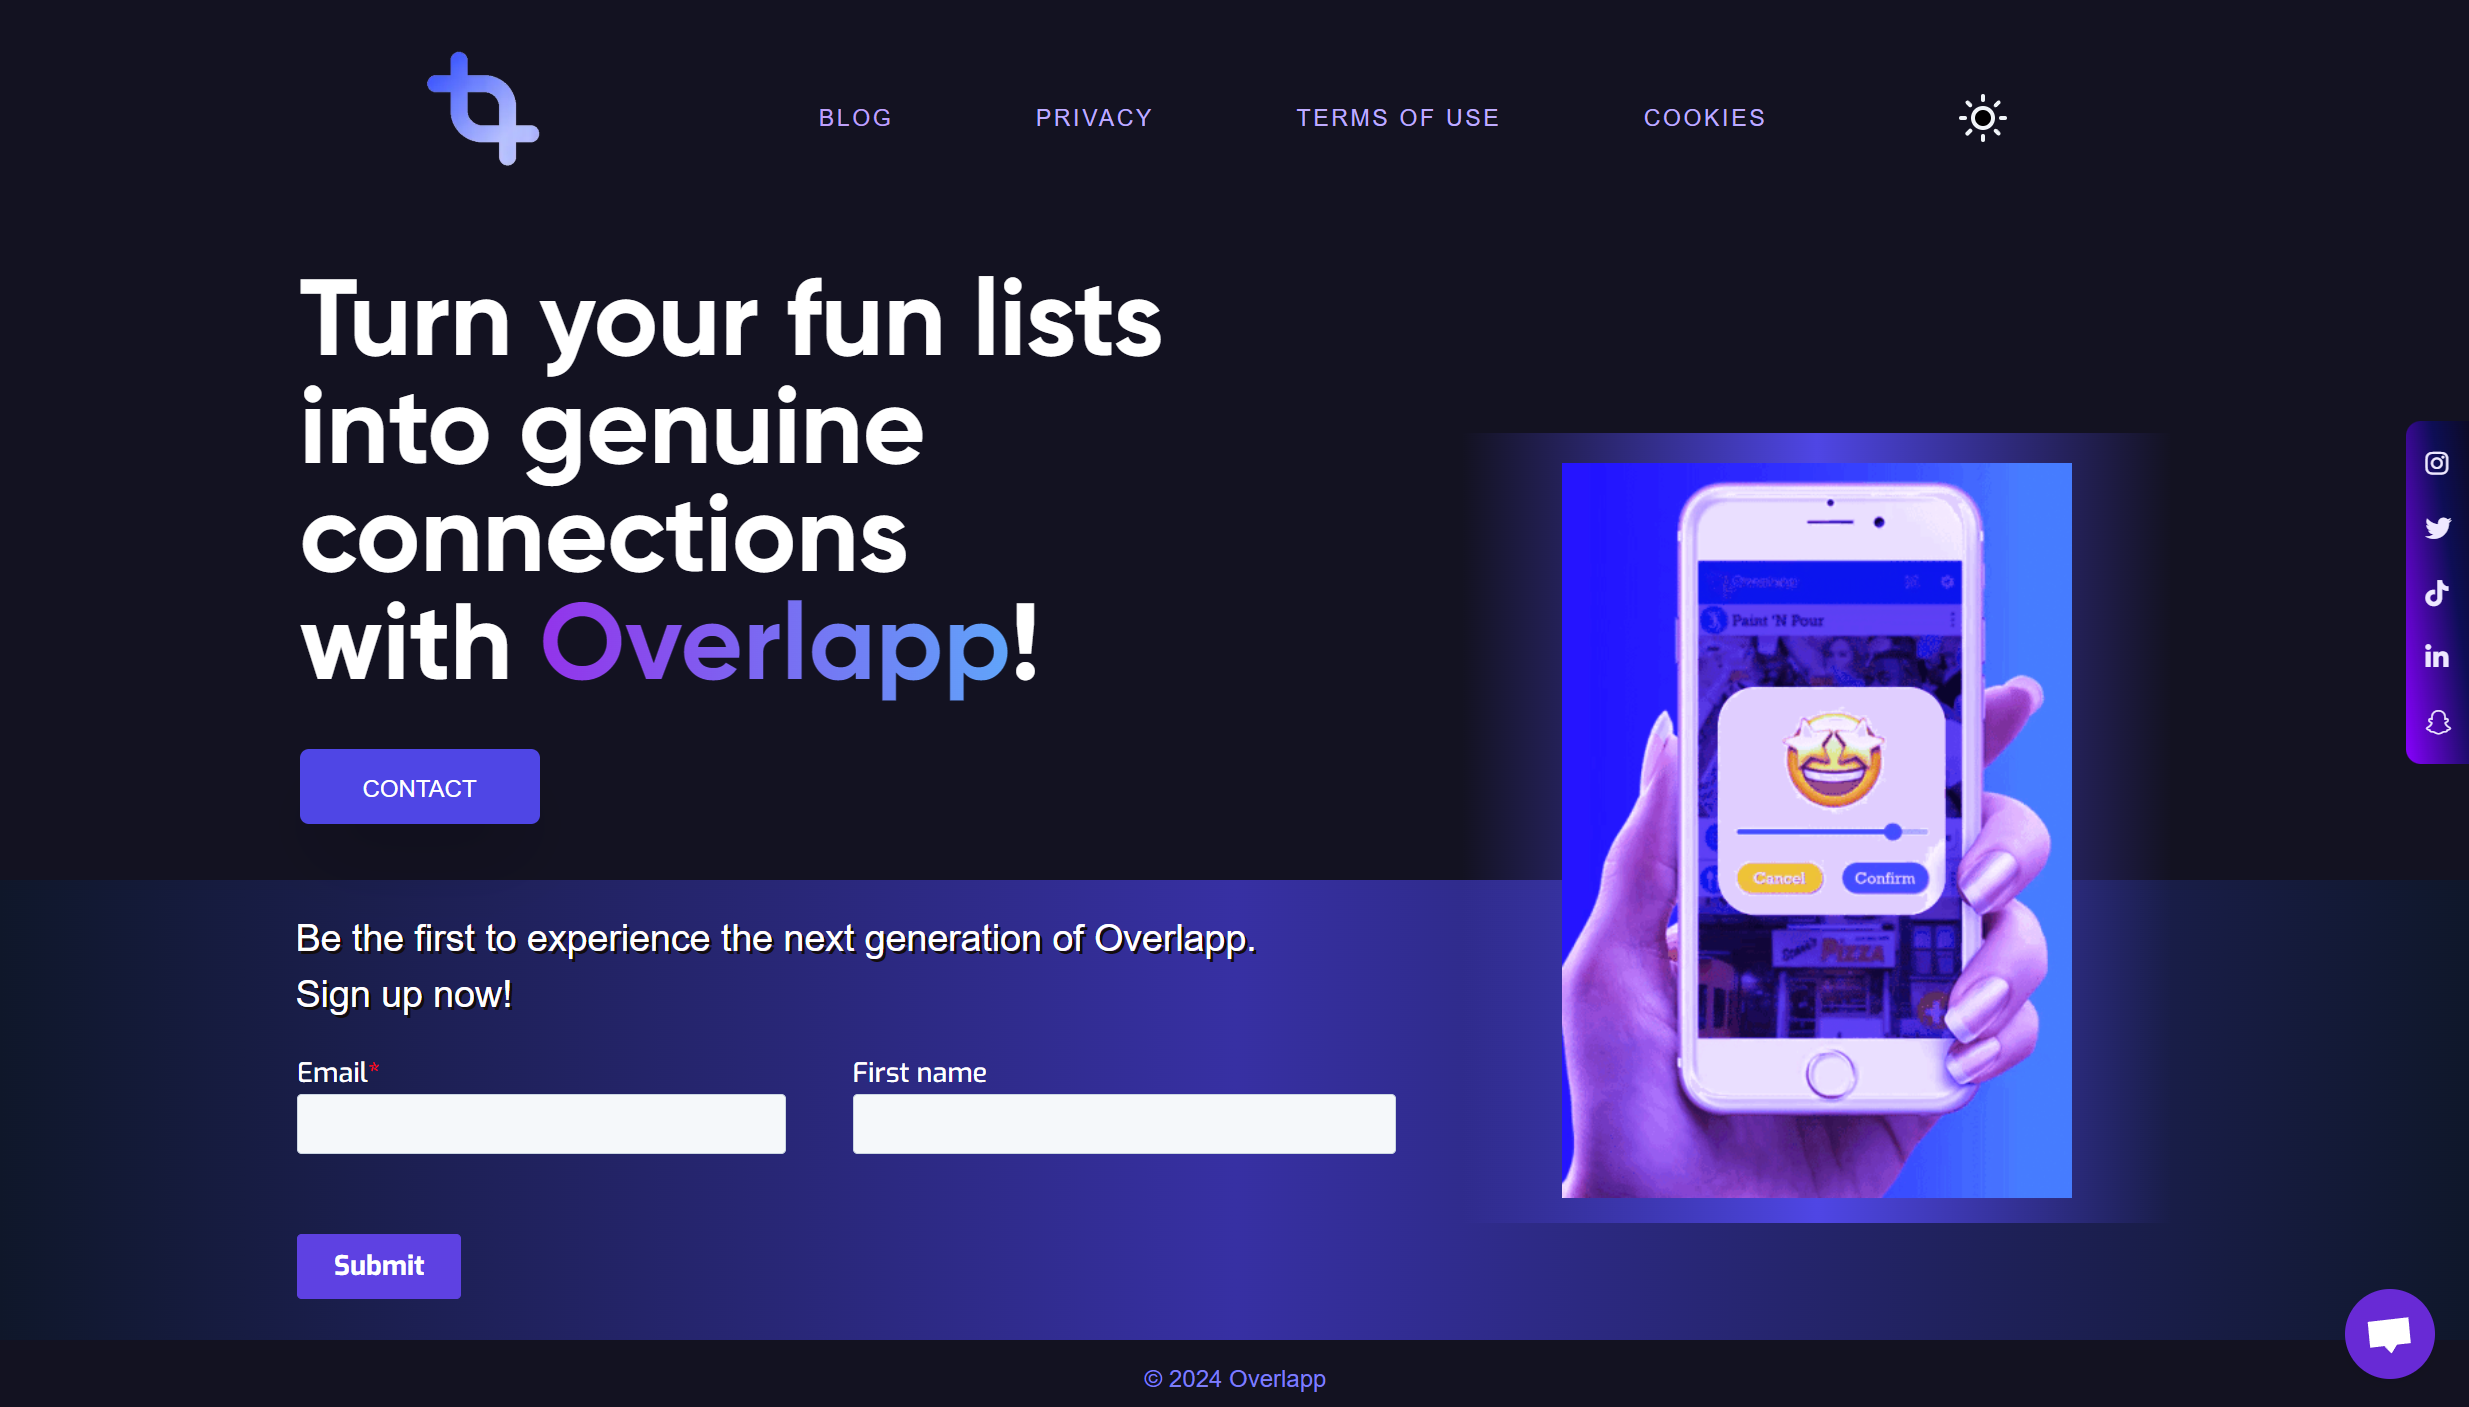
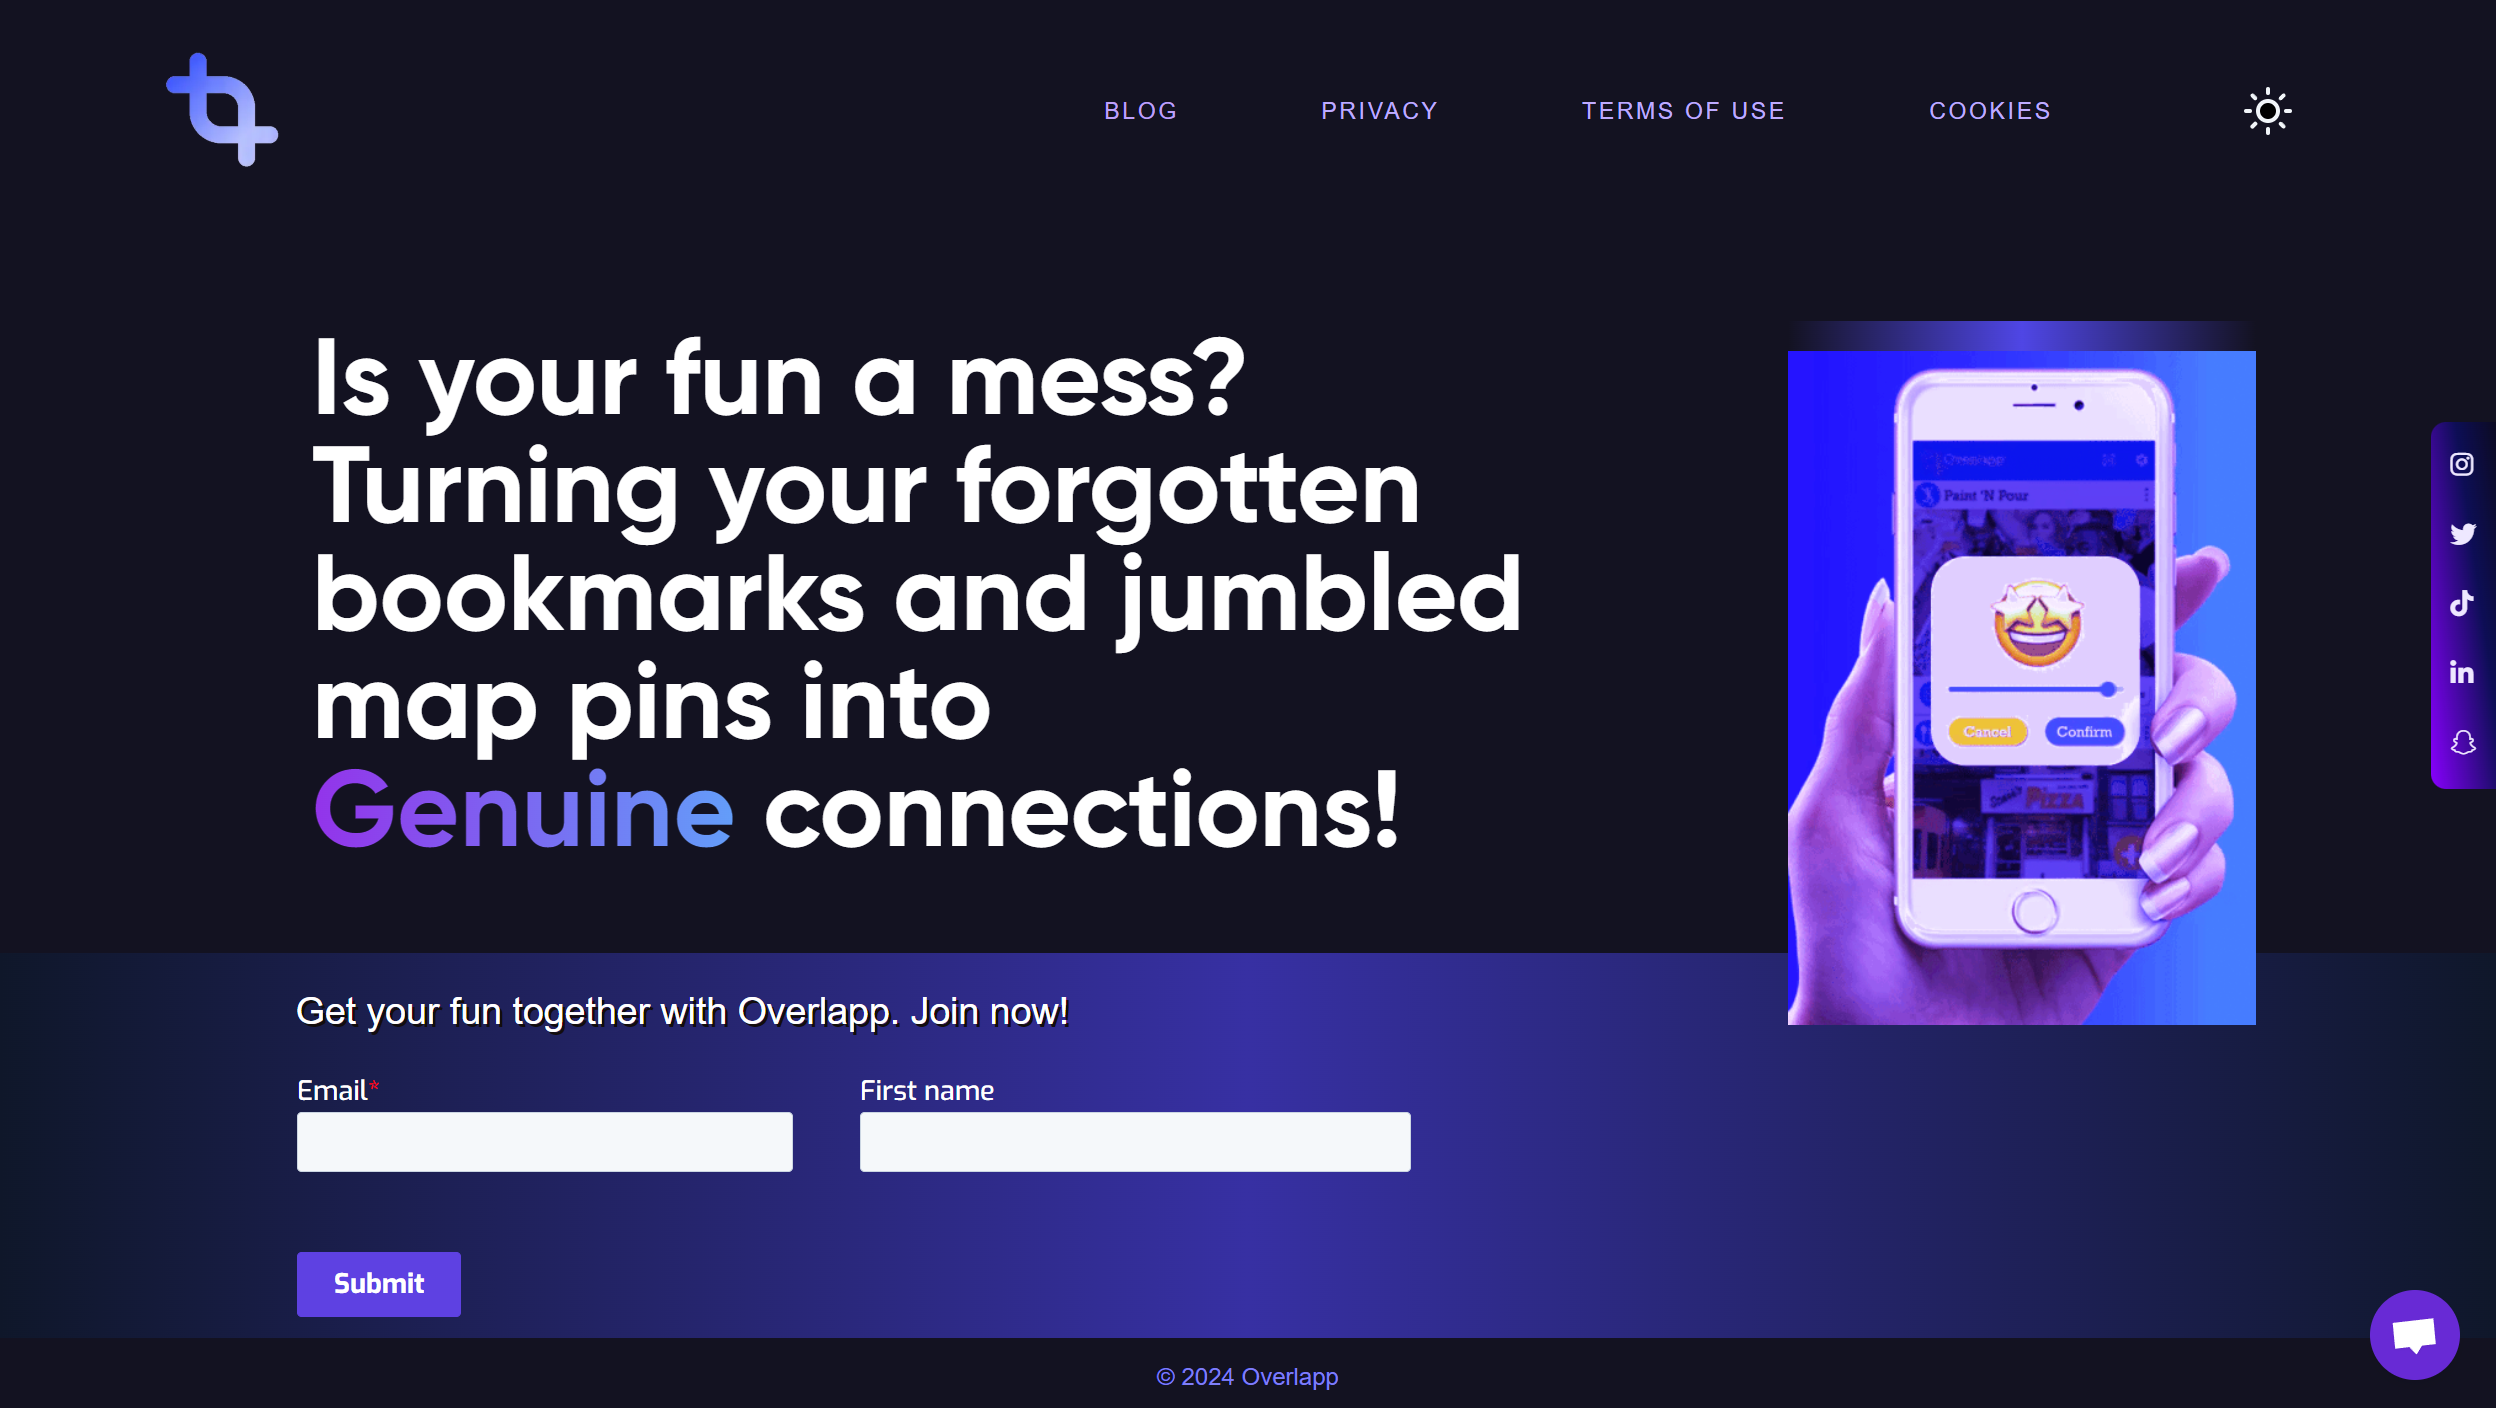
Sneak Peek blog post, removed contact link

diff --git a/apps/components/organism/Navigation.tsx b/apps/components/organism/Navigation.tsx
@@ -66,7 +66,7 @@ const Navigation: React.FC = () => {
                                                         Cookies
                                                     </motion.p>
                                                 </Link>
-                                                <Link href="mailto:hello@letsoverlapp.com">
+                                                {/* <Link href="mailto:hello@letsoverlapp.com">
                                                     <motion.p
                                                         initial={{ opacity: 0, translateY: -40 }}
                                                         animate={{ opacity: 1, translateY: 0 }}
@@ -76,7 +76,7 @@ const Navigation: React.FC = () => {
                                                     >
                                                         Contact
                                                     </motion.p>
-                                                </Link>
+                                                </Link> */}
                                             </div>
                                         </div>
                                     </div>

diff --git a/pages/posts/index.tsx b/pages/posts/index.tsx
@@ -26,14 +26,13 @@ const Posts: NextPage = ({ posts }: any) => {
                                 </ParagraphText>
                             </div>
                         </div>
-                        <div className="md:flex-row flex flex-col-reverse">
+                        <div className="blogs md:flex-row flex flex-col ">
                             {posts.map((post: any, idx: number) => (
                                 <PostCard
                                     key={idx}
                                     imagePath={post.frontMatter.imageUrl}
                                     postId={post.postId}
                                     title={post.frontMatter.title}
-                                    // description={post.frontMatter.description}
                                     category={post.frontMatter.category}
                                 />
                             ))}

diff --git a/apps/components/atoms/Text/index.tsx b/apps/components/atoms/Text/index.tsx
@@ -5,8 +5,8 @@ export const HeadingText: React.FC<ITextProps> = ({ children, isLight, className
     return (
         <h1
             className={clsx(
-                isLight ? "text-transparent bg-clip-text bg-gradient-to-r from-purple-600 pb-2 to-blue-100" : "text-transparent bg-clip-text bg-gradient-to-r from-purple-800 pb-2 to-blue-400",
-                "font-gilroy-bold text-5xl md:text-7xl",
+                isLight ? "text-transparent bg-clip-text pb-2 to-blue-100" : "text-transparent bg-clip-text bg-gradient-to-r from-purple-800 pb-2 to-blue-400",
+                "font-gilroy-bold text-5xl",
                 className
             )}
         >

diff --git a/apps/components/organism/Cards/PostCard.tsx b/apps/components/organism/Cards/PostCard.tsx
@@ -16,7 +16,7 @@ const PostCard: React.FC<IPostCard> = ({ imagePath, postId, title }) => {
                         </span>
                     </div> */}
                 </div>
-                <div className="h-40 flex flex-col">
+                <div className="h-40 flex flex-col flex">
                     <div className="bg-white p-5 rounded-2xl shadow-lg">
                         <h4 className="text-xl font-gilroy-bold leading-tight">{title}</h4>
                         {/* <div className="mt-1 mb-4">
@@ -34,4 +34,5 @@ const PostCard: React.FC<IPostCard> = ({ imagePath, postId, title }) => {
 }
 
 export default PostCard
+
 

diff --git a/apps/styles/globals.css b/apps/styles/globals.css
@@ -339,6 +339,11 @@ nav {
         margin-top: 0.5rem;
         margin-bottom: 2.5rem;
     }
+
+    .blogs {
+        display: flex;
+       flex-direction: column-reverse;
+    }
 }
 
 @media screen and (max-width: 800px) {
